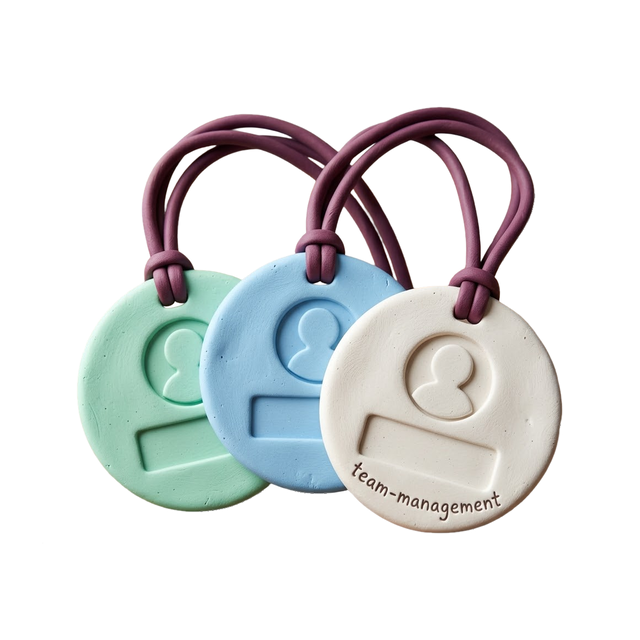
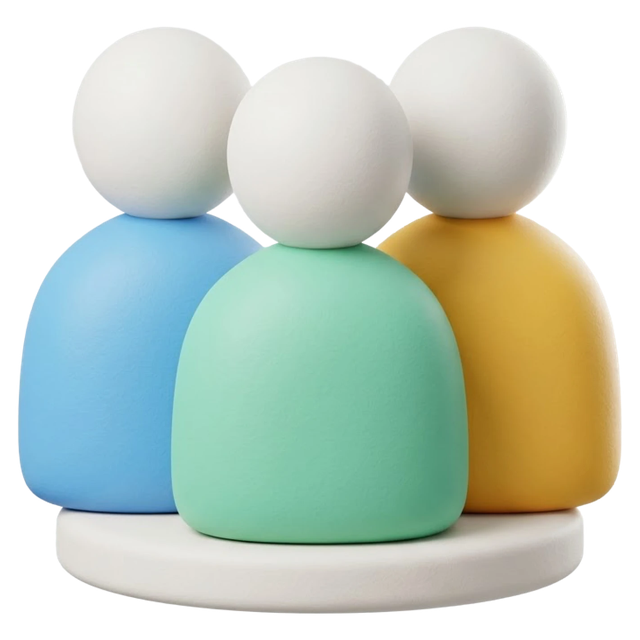
Clay v2: team-management as three figures

diff --git a/docs/CLAY-PROMPTS-V2.md b/docs/CLAY-PROMPTS-V2.md
@@ -248,7 +248,13 @@ off-white = paper, neutral parts.
 > Subject: a chunky rounded award rosette, turned about 25° to the right so its thick edge shows, an evenly scalloped rim (12 identical scallops), with two thick ribbon tails hanging below and a raised star in the centre. Gold rosette (#FFC94D), sky blue tails (#6CB8F0), a white star.
 
 **team-management**
-> Subject: three rounded ID badges fanned out in a clear arc so each badge and its avatar shows whole, each with a raised round avatar. Sky blue, mint and gold badges (#6CB8F0, #7FD8B4, #FFC94D), white avatars. Always a group of three (lounge-access is a single pass).
+> Round 1 (2026-10-30): colours and finish right. But the middle badge covers half of each side badge's avatar (cut-off people), and the group faces flat-on.
+>
+> ✅ Round 3 approved (2026-10-30): three figures on a base, every head visible. Installed.
+>
+> Round 2: same cut-off avatars; the generator keeps centring each avatar, so overlapping badges always hide them. Drop the badges.
+>
+> Subject: three chunky rounded person figures (round head, rounded shoulders, like simple pawns) standing close together in a shallow V on one small round base, the middle one slightly taller and in front, turned about 20° as a group; each figure fully visible, none covering another's head. Sky blue, mint and gold bodies (#6CB8F0, #7FD8B4, #FFC94D) with white heads, an off-white base (#F4F1EC). No badges, no cards.
 
 **ats-integrations**
 > Subject: two chunky rounded puzzle pieces fully joined together, the tab sitting inside the slot. Sky blue piece (#6CB8F0) and gold piece (#FFC94D).
